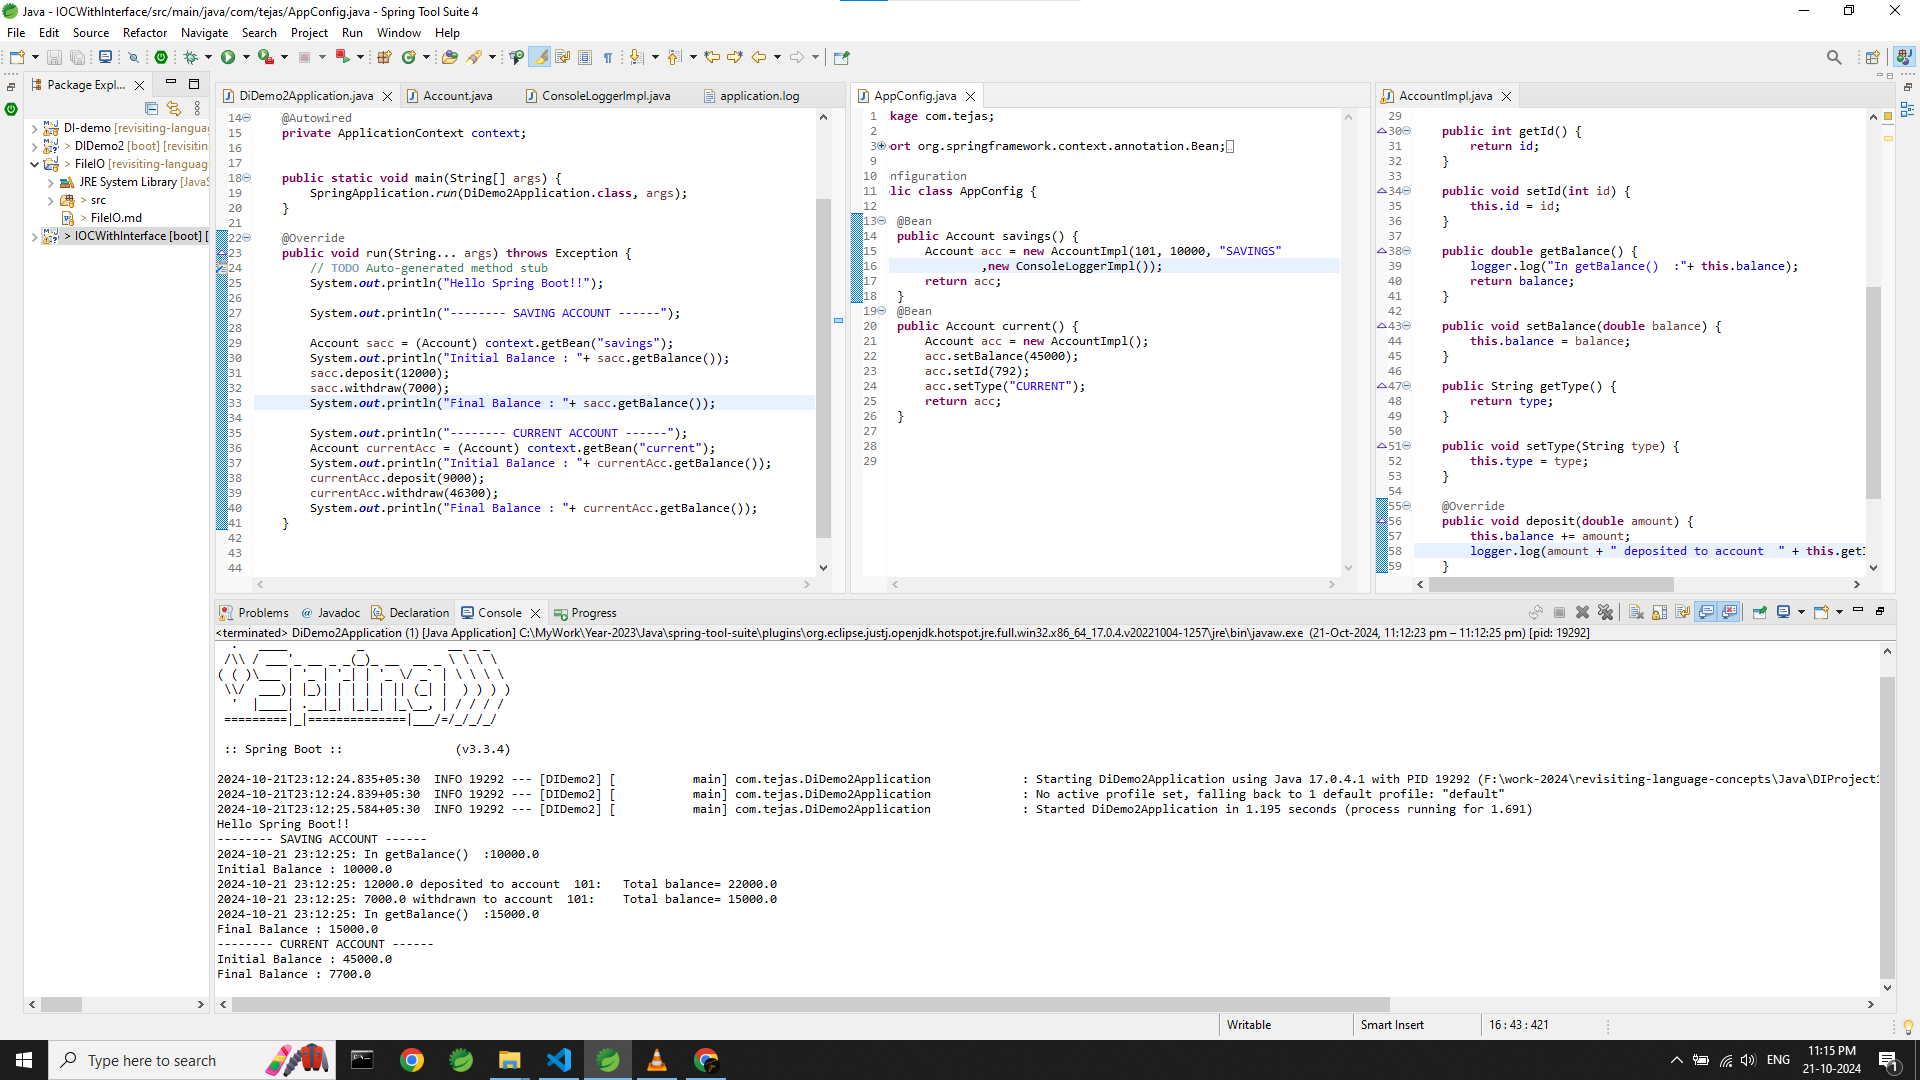
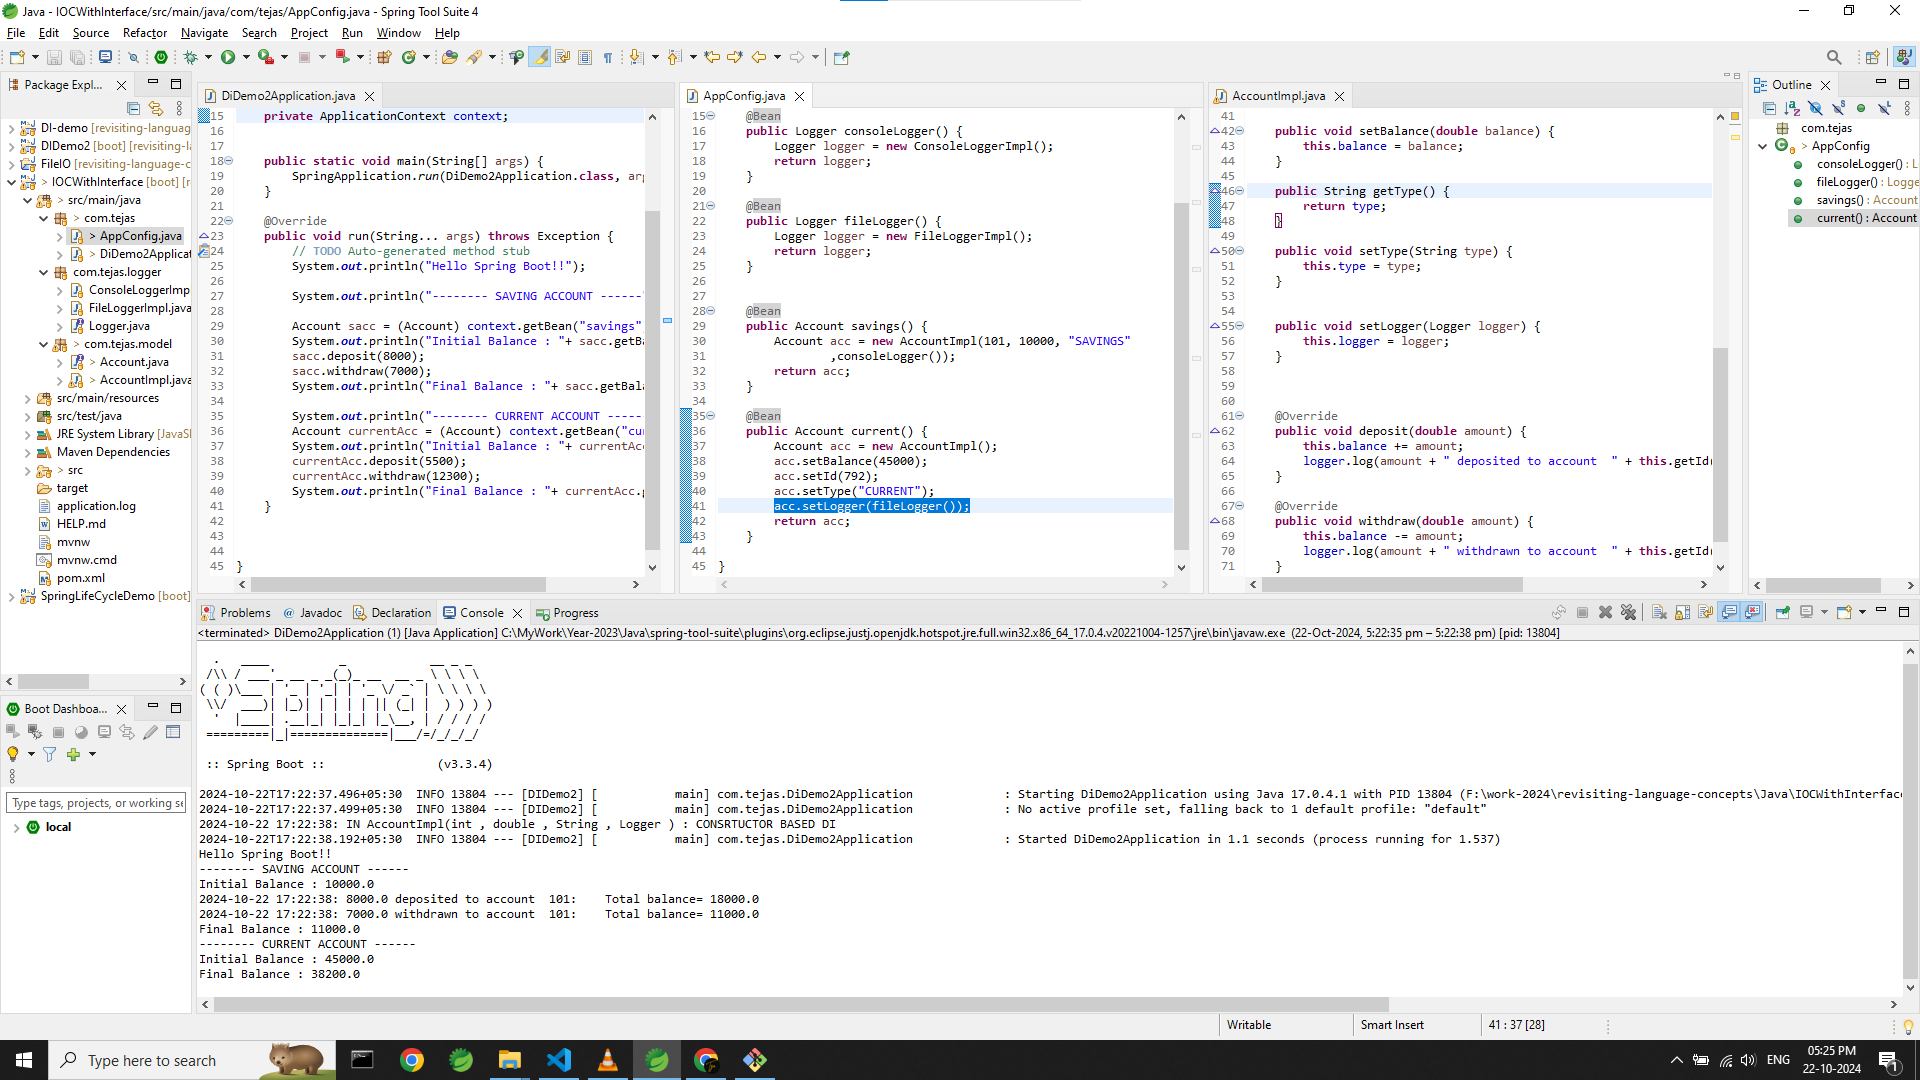
Log changes in Interface with IOC demo : 	- created fileLogger and consoleLogger bean 		-earlier created using new keyword which is not DI for 		logger

diff --git a/Java/IOCWithInterface/src/main/java/com/tejas/AppConfig.java b/Java/IOCWithInterface/src/main/java/com/tejas/AppConfig.java
@@ -4,6 +4,8 @@ import org.springframework.context.annotation.Bean;
 import org.springframework.context.annotation.Configuration;
 
 import com.tejas.logger.ConsoleLoggerImpl;
+import com.tejas.logger.FileLoggerImpl;
+import com.tejas.logger.Logger;
 import com.tejas.model.Account;
 import com.tejas.model.AccountImpl;
 
@@ -11,17 +13,33 @@ import com.tejas.model.AccountImpl;
 public class AppConfig {
 
 	@Bean
+	public Logger consoleLogger() {
+		Logger logger = new ConsoleLoggerImpl();
+		return logger;
+	}
+	
+	@Bean
+	public Logger fileLogger() {
+		Logger logger = new FileLoggerImpl();
+		return logger;
+	}
+	
+	
+	@Bean
 	public Account savings() {
 		Account acc = new AccountImpl(101, 10000, "SAVINGS"
-				,new ConsoleLoggerImpl());
+				,consoleLogger());
 		return acc;
 	}
+	
 	@Bean
 	public Account current() {
 		Account acc = new AccountImpl();
+		acc.setLogger(fileLogger());
 		acc.setBalance(45000);
 		acc.setId(792);
 		acc.setType("CURRENT");
+		
 		return acc;
 	}
 

diff --git a/Java/IOCWithInterface/src/main/java/com/tejas/model/AccountImpl.java b/Java/IOCWithInterface/src/main/java/com/tejas/model/AccountImpl.java
@@ -23,10 +23,7 @@ public class AccountImpl implements Account {
 		logger.log("IN AccountImpl(int , double , String , Logger ) : CONSRTUCTOR BASED DI");
 	}
 	
-
-
 	public AccountImpl() {
-		this.logger = new  FileLoggerImpl();
 	}
 
 	public int getId() {
@@ -34,17 +31,15 @@ public class AccountImpl implements Account {
 	}
 
 	public void setId(int id) {
-		logger.log("In setBalance()");
 		this.id = id;
 	}
 
 	public double getBalance() {
-		logger.log("In getBalance()  :"+ this.balance);
+		
 		return balance;
 	}
 
 	public void setBalance(double balance) {
-		logger.log("In setBalance()");
 		this.balance = balance;
 	}
 
@@ -54,9 +49,15 @@ public class AccountImpl implements Account {
 	}
 
 	public void setType(String type) {
-		logger.log("In setType()");
 		this.type = type;
 	}
+	
+
+	public void setLogger(Logger logger) {
+		this.logger = logger;
+	}
+
+
 
 	@Override
 	public void deposit(double amount) {

diff --git a/Java/IOCWithInterface/src/main/java/com/tejas/DiDemo2Application.java b/Java/IOCWithInterface/src/main/java/com/tejas/DiDemo2Application.java
@@ -28,15 +28,15 @@ public class DiDemo2Application implements CommandLineRunner {
 		
 		Account sacc = (Account) context.getBean("savings");
 		System.out.println("Initial Balance : "+ sacc.getBalance());
-		sacc.deposit(12000);
+		sacc.deposit(8000);
 		sacc.withdraw(7000);
 		System.out.println("Final Balance : "+ sacc.getBalance());
 		
 		System.out.println("-------- CURRENT ACCOUNT ------");
 		Account currentAcc = (Account) context.getBean("current");
 		System.out.println("Initial Balance : "+ currentAcc.getBalance());
-		currentAcc.deposit(9000);
-		currentAcc.withdraw(46300);
+		currentAcc.deposit(5500);
+		currentAcc.withdraw(12300);
 		System.out.println("Final Balance : "+ currentAcc.getBalance());
 	}
 	

diff --git a/Java/IOCWithInterface/src/main/java/com/tejas/model/Account.java b/Java/IOCWithInterface/src/main/java/com/tejas/model/Account.java
@@ -1,5 +1,7 @@
 package com.tejas.model;
 
+import com.tejas.logger.Logger;
+
 public interface Account {
 	void setId(int id);
 	int getId();
@@ -9,6 +11,8 @@ public interface Account {
 	
 	void setBalance(double amount);
 	double getBalance();
+	
+	void setLogger(Logger logger); // set logger added
 	
 	void deposit(double amount);
 	void withdraw(double amount);
